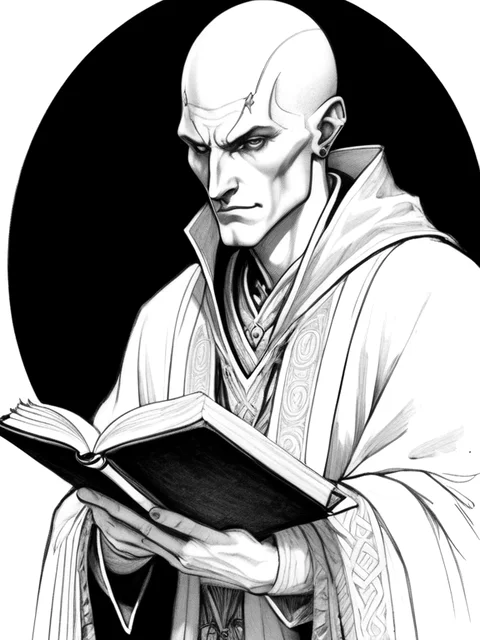
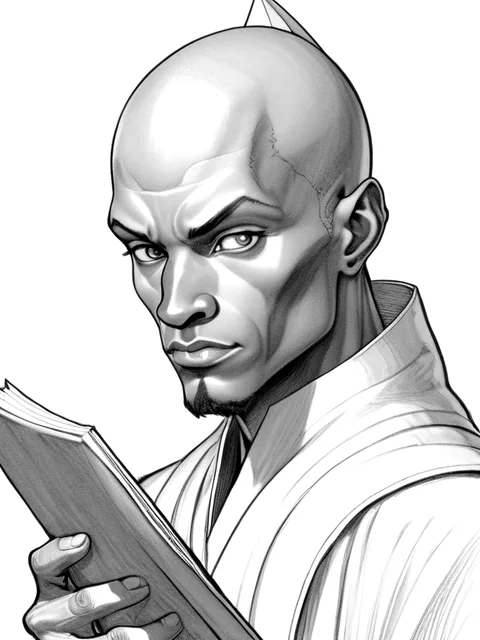
home: grouped nav sections, hero portrait band, parchment dashboard; erudite retake
Homepage reorganized into nav-mirroring sections with framed glyph cards,
eight class sketches on parchment plates under the hero, the active-character
dashboard restyled as a parchment strip with class portrait, the brand
compass on every footer, and a clean-background erudite portrait.

diff --git a/src/pages/Home.tsx b/src/pages/Home.tsx
@@ -5,7 +5,134 @@ import { CLASS_BY_ID } from '../data/classes';
 import { recommendZones, nextMilestones } from '../lib/advisor';
 import { bandForLevel } from '../data/progression';
 import { FitBadge } from '../components/ZoneCard';
+import { ClassPortrait } from '../components/ClassPortrait';
 import BrandMark from '../components/BrandMark';
+
+/** the sketches paraded under the hero — a fixed, recognizable lineup */
+const HERO_CLASSES = ['warrior', 'cleric', 'wizard', 'rogue', 'shaman', 'enchanter', 'ranger', 'necromancer'];
+
+interface NavCard {
+  to: string;
+  icon: string;
+  title: string;
+  blurb: string;
+}
+
+const SECTIONS: { label: string; cards: NavCard[] }[] = [
+  {
+    label: 'The World',
+    cards: [
+      {
+        to: '/atlas',
+        icon: '🗺',
+        title: 'Atlas',
+        blurb:
+          'Every launch zone across Antonica, Faydwer, Odus, and the Planes — level ranges, hunting camps, dangers, and connection maps.'
+      },
+      {
+        to: '/bestiary',
+        icon: '🐉',
+        title: 'Bestiary',
+        blurb:
+          'Nameds, raid dragons, and famous camps — levels, locations, and the loot that made them legends.'
+      },
+      {
+        to: '/quests',
+        icon: '✉',
+        title: 'Quest Guide',
+        blurb:
+          'Repeatable XP turn-ins and the iconic item quests — filtered to what your character can actually do.'
+      },
+      {
+        to: '/factions',
+        icon: '⚖',
+        title: 'Faction Guide',
+        blurb:
+          'The significant classic-era factions — who to raise, who it costs you, and which cities are safe for your race.'
+      },
+      {
+        to: '/travel',
+        icon: '🌀',
+        title: 'Travel Guide',
+        blurb:
+          'The full port network — druid rings, wizard gates, evacs, and the new Rituals system — colored by what your combo can cast.'
+      }
+    ]
+  },
+  {
+    label: 'Your Classes',
+    cards: [
+      {
+        to: '/classes',
+        icon: '⚔',
+        title: 'Races & Classes',
+        blurb:
+          '15 races, 16 classes, and the 3-class system — with a combo explorer to pressure-test your trio before you commit.'
+      },
+      {
+        to: '/spells',
+        icon: '✨',
+        title: 'Spells & Skills',
+        blurb:
+          'Every class’s full spell book, skill caps, and AA tables — with auto-granted vs. vendor vs. drop sources for all ~1,500 spells.'
+      },
+      {
+        to: '/abilities',
+        icon: '🛡',
+        title: 'Stances & Invocations',
+        blurb:
+          'EQL’s combat modes decoded — which of the 9 stances and 9 invocations your trio unlocks, with multiclass scaling computed.'
+      },
+      {
+        to: '/macros',
+        icon: '⌨',
+        title: 'Macro Guide',
+        blurb:
+          'Ready-to-build social macros for your combo — including one-button cross-class rotations unique to the 3-class system.'
+      }
+    ]
+  },
+  {
+    label: 'Guides & Lore',
+    cards: [
+      {
+        to: '/progression',
+        icon: '📜',
+        title: 'Progression Guide',
+        blurb:
+          'A band-by-band roadmap from level 1 to the planar endgame at 50 — milestones, role tips, and where to hunt at every stage.'
+      },
+      {
+        to: '/tradeskills',
+        icon: '⚒️',
+        title: 'Tradeskill Guide',
+        blurb:
+          'Every craft from Alchemy to Tinkering — who can practice it, the cheapest 0-to-cap ladder, and the recipes people pay for.'
+      },
+      {
+        to: '/handbook',
+        icon: '📖',
+        title: 'Systems Handbook',
+        blurb:
+          'AAs from level 1, Exaltation gear customization, deities, and loadouts — the systems the manual never shipped for.'
+      },
+      {
+        to: '/lore',
+        icon: '🕯',
+        title: 'Lore & History',
+        blurb:
+          'Five ages of Norrath, sixteen gods, and the kings, dragons, and villains behind the zones — plus your race’s place in the story.'
+      },
+      {
+        to: '/character',
+        icon: '🧭',
+        title: 'Personal Advisor',
+        blurb:
+          'Your character sheet and advisor: ranked hunting zones, build analysis, AA planning, and your next milestones.'
+      }
+    ]
+  }
+];
 
 export default function Home() {
   const { active } = useCharacters();
@@ -38,6 +165,13 @@ export default function Home() {
             Browse the atlas
           </Link>
         </div>
+        <div className="hero-band" aria-hidden="true">
+          {HERO_CLASSES.map((id) => (
+            <Link key={id} to={`/classes/${id}`} tabIndex={-1}>
+              <ClassPortrait classId={id} parchment />
+            </Link>
+          ))}
+        </div>
       </section>
 
       {active ? (
@@ -49,106 +183,22 @@ export default function Home() {
         </div>
       )}
 
-      <div className="card-grid" style={{ marginTop: '1.2rem' }}>
-        <Link to="/atlas" className="card" style={{ color: 'inherit' }}>
-          <h3 style={{ marginTop: 0 }}>🗺 Atlas</h3>
-          <p className="small muted">
-            Every launch zone across Antonica, Faydwer, Odus, and the Planes — level ranges, hunting
-            camps, dangers, and connection maps.
-          </p>
-        </Link>
-        <Link to="/classes" className="card" style={{ color: 'inherit' }}>
-          <h3 style={{ marginTop: 0 }}>⚔ Races &amp; Classes</h3>
-          <p className="small muted">
-            15 races, 16 classes, and the 3-class system — with full per-class spell lists, skill
-            caps, and AA tables harvested from the EQL Wiki.
-          </p>
-        </Link>
-        <Link to="/bestiary" className="card" style={{ color: 'inherit' }}>
-          <h3 style={{ marginTop: 0 }}>🐉 Bestiary</h3>
-          <p className="small muted">
-            Nameds, raid dragons, and famous camps — levels, locations, and the loot that made them
-            legends.
-          </p>
-        </Link>
-        <Link to="/quests" className="card" style={{ color: 'inherit' }}>
-          <h3 style={{ marginTop: 0 }}>✉ Quest Guide</h3>
-          <p className="small muted">
-            Repeatable XP turn-ins and the iconic item quests — filtered to what your character can
-            actually do.
-          </p>
-        </Link>
-        <Link to="/macros" className="card" style={{ color: 'inherit' }}>
-          <h3 style={{ marginTop: 0 }}>⌨ Macro Guide</h3>
-          <p className="small muted">
-            Ready-to-build social macros for your combo — including one-button cross-class rotations
-            unique to the 3-class system.
-          </p>
-        </Link>
-        <Link to="/spells" className="card" style={{ color: 'inherit' }}>
-          <h3 style={{ marginTop: 0 }}>✨ Spells &amp; Skills</h3>
-          <p className="small muted">
-            Every class’s full spell book, skill caps, and AA tables — with auto-granted vs.
-            vendor vs. drop sources for all ~1,500 spells.
-          </p>
-        </Link>
-        <Link to="/factions" className="card" style={{ color: 'inherit' }}>
-          <h3 style={{ marginTop: 0 }}>⚖ Faction Guide</h3>
-          <p className="small muted">
-            The significant classic-era factions — who to raise, who it costs you, and which
-            cities are safe for your race. Now with EQL faction achievements.
-          </p>
-        </Link>
-        <Link to="/abilities" className="card" style={{ color: 'inherit' }}>
-          <h3 style={{ marginTop: 0 }}>🛡 Stances &amp; Invocations</h3>
-          <p className="small muted">
-            EQL’s combat modes decoded — which of the 9 stances and 9 invocations your trio
-            unlocks, with the multiclass scaling computed for your combo.
-          </p>
-        </Link>
-        <Link to="/travel" className="card" style={{ color: 'inherit' }}>
-          <h3 style={{ marginTop: 0 }}>🌀 Travel Guide</h3>
-          <p className="small muted">
-            The full port network — druid rings, wizard gates, evacs, and the new Rituals system —
-            colored by what your combo can cast today.
-          </p>
-        </Link>
-        <Link to="/handbook" className="card" style={{ color: 'inherit' }}>
-          <h3 style={{ marginTop: 0 }}>📖 Systems Handbook</h3>
-          <p className="small muted">
-            AAs from level 1, Exaltation gear customization, tradeskill rules, deities, and
-            loadouts — the systems the manual never shipped for.
-          </p>
-        </Link>
-        <Link to="/tradeskills" className="card" style={{ color: 'inherit' }}>
-          <h3 style={{ marginTop: 0 }}>⚒️ Tradeskill Guide</h3>
-          <p className="small muted">
-            Every craft from Alchemy to Tinkering — who can practice it, the cheapest 0-to-cap
-            leveling ladder, and the recipes people actually pay for.
-          </p>
-        </Link>
-        <Link to="/lore" className="card" style={{ color: 'inherit' }}>
-          <h3 style={{ marginTop: 0 }}>🕯 Lore &amp; History</h3>
-          <p className="small muted">
-            Five ages of Norrath, sixteen gods, and the kings, dragons, and villains behind the
-            zones — plus your race’s place in the story.
-          </p>
-        </Link>
-        <Link to="/progression" className="card" style={{ color: 'inherit' }}>
-          <h3 style={{ marginTop: 0 }}>📜 Progression Guide</h3>
-          <p className="small muted">
-            A band-by-band roadmap from level 1 to the planar endgame at 50 — milestones, role tips,
-            and where to hunt at every stage.
-          </p>
-        </Link>
-        <Link to="/character" className="card" style={{ color: 'inherit' }}>
-          <h3 style={{ marginTop: 0 }}>🧭 Personal Advisor</h3>
-          <p className="small muted">
-            Tell it your race, classes, and level; get ranked hunting zones, build analysis, and your
-            next milestones.
-          </p>
-        </Link>
-      </div>
+      {SECTIONS.map((section) => (
+        <section key={section.label} className="home-group">
+          <h2 className="home-group-label">{section.label}</h2>
+          <div className="card-grid">
+            {section.cards.map((c) => (
+              <Link key={c.to} to={c.to} className="card card--nav" style={{ color: 'inherit' }}>
+                <h3>
+                  <span className="glyph-plate" aria-hidden="true">{c.icon}</span>
+                  {c.title}
+                </h3>
+                <p className="small muted">{c.blurb}</p>
+              </Link>
+            ))}
+          </div>
+        </section>
+      ))}
     </div>
   );
 }
@@ -162,45 +212,50 @@ function ActiveDashboard() {
   const milestones = nextMilestones(active).slice(0, 3);
 
   return (
-    <div className="card">
-      <h2 style={{ marginTop: 0 }}>
-        {active.name} — level {active.level} {race?.name}{' '}
-        <span className="muted small">
-          {active.classIds.map((c) => CLASS_BY_ID[c]?.name).join(' / ')}
-        </span>
-      </h2>
-      <div className="two-col">
-        <div>
-          <strong className="small" style={{ color: 'var(--gold-dim)' }}>
-            HUNT NEXT
-          </strong>
-          <ul className="tight">
-            {recs.map((r) => (
-              <li key={r.zone.id}>
-                <Link to={`/atlas/${r.zone.id}`}>{r.zone.name}</Link>{' '}
-                <span className="muted small">
-                  ({r.zone.levelMin}–{r.zone.levelMax})
-                </span>{' '}
-                <FitBadge fit={r.fit} />
-              </li>
-            ))}
-          </ul>
-          <Link to="/character" className="small">
-            Full advisor report →
-          </Link>
-        </div>
-        <div>
-          <strong className="small" style={{ color: 'var(--gold-dim)' }}>
-            LEVELS {band.label}: {band.title.toUpperCase()}
-          </strong>
-          <ul className="tight small">
-            {milestones.map((m) => (
-              <li key={m}>{m}</li>
-            ))}
-          </ul>
-          <Link to="/progression" className="small">
-            Progression guide →
-          </Link>
+    <div className="home-dash">
+      <div className="home-dash-portrait">
+        <ClassPortrait classId={active.classIds[0]} parchment />
+      </div>
+      <div className="home-dash-body">
+        <h2 className="home-dash-name">
+          {active.name}
+          <span className="home-dash-sub">
+            {' '}
+            — level {active.level} {race?.name}{' '}
+            {active.classIds.map((c) => CLASS_BY_ID[c]?.name).join(' / ')}
+          </span>
+        </h2>
+        <div className="two-col">
+          <div>
+            <strong className="home-dash-kicker">HUNT NEXT</strong>
+            <ul className="tight">
+              {recs.map((r) => (
+                <li key={r.zone.id}>
+                  <Link to={`/atlas/${r.zone.id}`}>{r.zone.name}</Link>{' '}
+                  <span className="small" style={{ opacity: 0.75 }}>
+                    ({r.zone.levelMin}–{r.zone.levelMax})
+                  </span>{' '}
+                  <FitBadge fit={r.fit} />
+                </li>
+              ))}
+            </ul>
+            <Link to="/character" className="small">
+              Full character sheet & advisor →
+            </Link>
+          </div>
+          <div>
+            <strong className="home-dash-kicker">
+              LEVELS {band.label}: {band.title.toUpperCase()}
+            </strong>
+            <ul className="tight small">
+              {milestones.map((m) => (
+                <li key={m}>{m}</li>
+              ))}
+            </ul>
+            <Link to="/progression" className="small">
+              Progression guide →
+            </Link>
+          </div>
         </div>
       </div>
     </div>

diff --git a/src/components/Layout.tsx b/src/components/Layout.tsx
@@ -115,6 +115,7 @@ export default function Layout() {
         <Outlet />
       </main>
       <footer className="site-footer">
+        <BrandMark size={22} />
         <p>{DISCLAIMER}</p>
         <p>
           Data version: {DATA_VERSION} ·{' '}